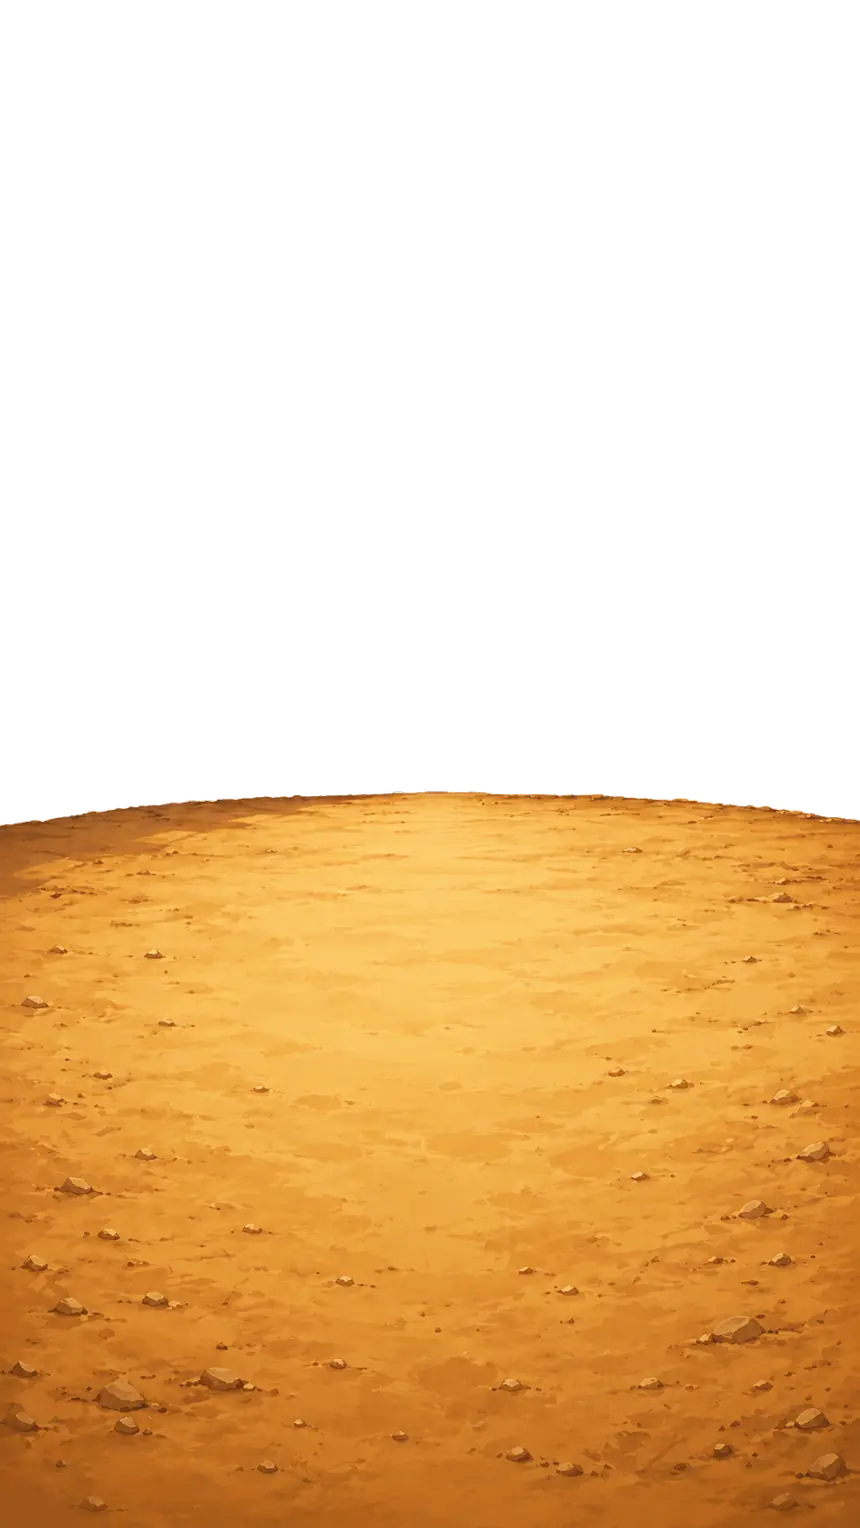
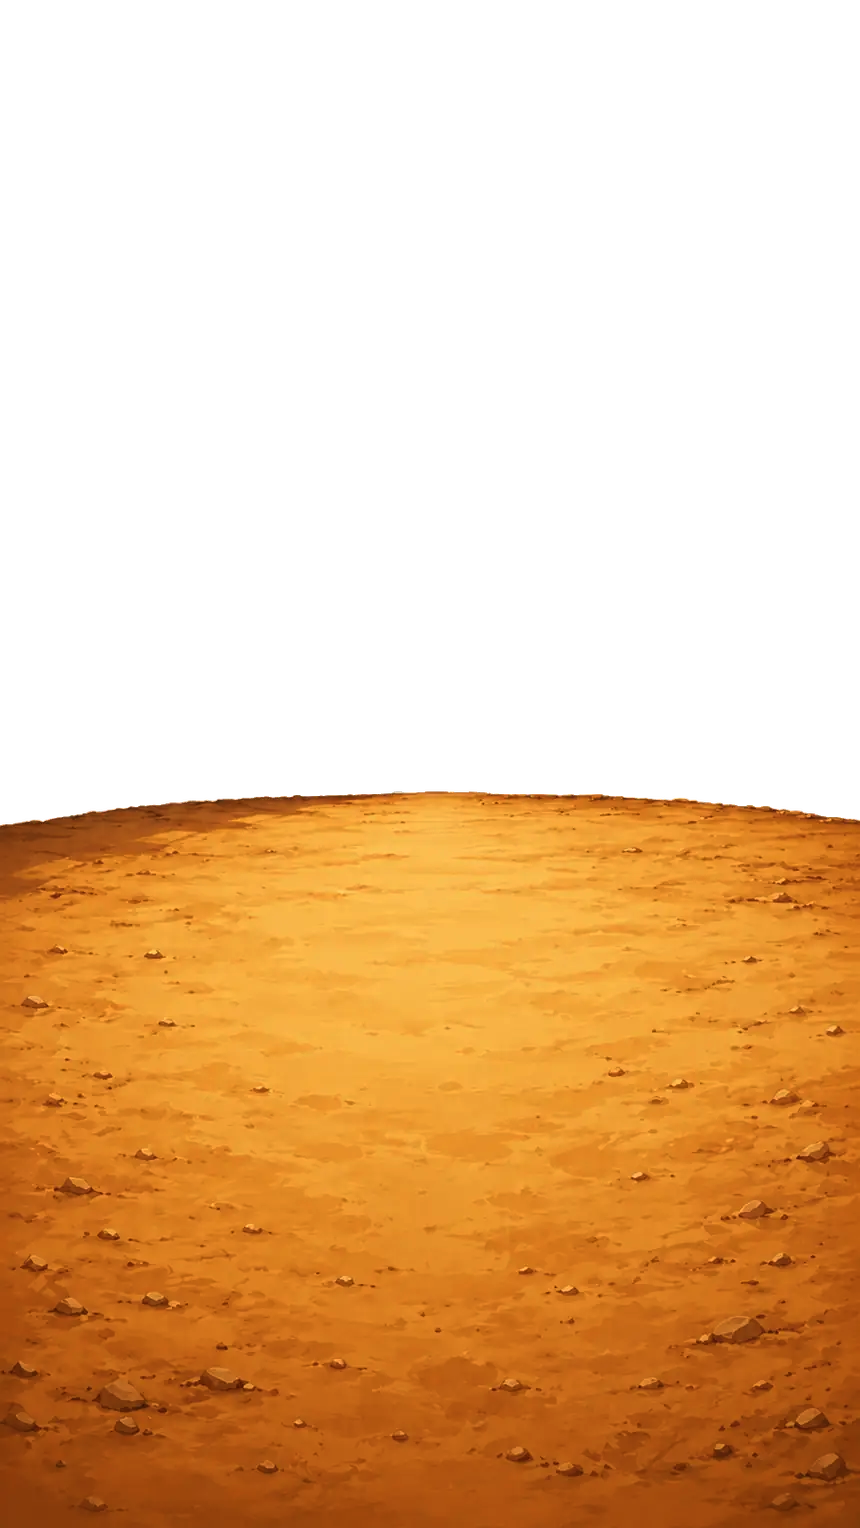
Add new wood panel assets in PNG and WEBP formats
- Introduced ui-panel-wood.png for traditional PNG usage.
- Added ui-panel-wood.webp for optimized web performance.

diff --git a/gladiator-arena/src/styles.css b/gladiator-arena/src/styles.css
@@ -7,6 +7,8 @@
   --burnt: #7a2d16;
   --red: #c83b2d;
   --teal: #42b7aa;
+  --ui-panel-wood-texture: url("./assets/ui/panels/ui-panel-wood.webp");
+  --ui-panel-wood-size: 256px 256px;
 }
 
 * {
@@ -1689,7 +1691,7 @@ h1 {
 }
 
 .city-menu {
-  --city-top-hud-height: 86px;
+  --city-top-hud-height: 96px;
   position: relative;
   isolation: isolate;
   overflow: hidden;
@@ -1780,12 +1782,12 @@ h1 {
   z-index: 4;
   display: grid;
   box-sizing: border-box;
-  grid-template-columns: 84px minmax(0, 1fr);
+  grid-template-columns: 92px minmax(0, 1fr);
   gap: 10px;
   align-items: center;
   width: 100%;
   height: var(--city-top-hud-height);
-  padding: 7px 13px 9px 8px;
+  padding: 8px 13px 10px 9px;
   border: 0;
   border-bottom: 4px solid #1d0a05;
   border-radius: 0 0 14px 14px;
@@ -1793,7 +1795,8 @@ h1 {
   background:
     radial-gradient(circle at 7% 50%, rgba(255, 194, 88, 0.22), transparent 20%),
     radial-gradient(circle at 22% 6%, rgba(255, 197, 95, 0.18), transparent 34%),
-    repeating-linear-gradient(0deg, rgba(255, 234, 180, 0.035) 0 1px, transparent 1px 5px),
+    linear-gradient(180deg, rgba(62, 30, 15, 0.42), rgba(12, 4, 2, 0.72)),
+    var(--ui-panel-wood-texture) center / var(--ui-panel-wood-size) repeat,
     linear-gradient(180deg, #3c2518 0%, #21100a 58%, #110604 100%);
   box-shadow:
     inset 0 2px 0 rgba(255, 219, 144, 0.28),
@@ -1932,8 +1935,8 @@ h1 {
   overflow: hidden;
   justify-self: center;
   box-sizing: border-box;
-  width: 72px;
-  height: 72px;
+  width: 80px;
+  height: 80px;
   padding: 0;
   border: 3px solid #2a1208;
   border-radius: 50%;
@@ -2522,7 +2525,8 @@ body.debug-active .city-menu__portrait-button:active {
   background:
     linear-gradient(90deg, rgba(255, 220, 146, 0.08) 0 1px, transparent 1px calc(100% - 1px), rgba(255, 220, 146, 0.08) calc(100% - 1px)),
     radial-gradient(circle at 14% 3%, rgba(255, 202, 104, 0.16), transparent 26%),
-    repeating-linear-gradient(0deg, rgba(255, 234, 180, 0.026) 0 1px, transparent 1px 4px),
+    linear-gradient(180deg, rgba(84, 39, 18, 0.36), rgba(18, 6, 2, 0.82)),
+    var(--ui-panel-wood-texture) center / var(--ui-panel-wood-size) repeat,
     linear-gradient(180deg, #5b2c14 0%, #2b1209 42%, #1a0904 100%);
   box-shadow:
     inset 0 0 0 2px rgba(94, 52, 28, 0.58),
@@ -2568,6 +2572,8 @@ body.debug-active .city-menu__portrait-button:active {
   border-radius: 4px;
   background:
     linear-gradient(90deg, rgba(255, 220, 146, 0.08), rgba(255, 220, 146, 0.24), rgba(255, 220, 146, 0.08)),
+    linear-gradient(180deg, rgba(117, 54, 24, 0.38), rgba(20, 6, 2, 0.72)),
+    var(--ui-panel-wood-texture) center / 220px 220px repeat,
     linear-gradient(180deg, #7a3a19, #2a0d05);
   box-shadow:
     inset 0 2px 0 rgba(255, 220, 146, 0.22),
@@ -2595,6 +2601,8 @@ body.debug-active .city-menu__portrait-button:active {
   border-radius: 7px;
   background:
     linear-gradient(90deg, rgba(255, 220, 146, 0.08), transparent 46%),
+    linear-gradient(180deg, rgba(58, 23, 10, 0.44), rgba(14, 4, 2, 0.54)),
+    var(--ui-panel-wood-texture) center / var(--ui-panel-wood-size) repeat,
     linear-gradient(180deg, rgba(58, 23, 10, 0.62), rgba(19, 6, 3, 0.32));
   box-shadow:
     inset 0 1px 0 rgba(255, 220, 146, 0.12),
@@ -2830,6 +2838,8 @@ body.debug-active .city-menu__portrait-button:active {
   border-radius: 6px;
   background:
     linear-gradient(90deg, rgba(255, 220, 146, 0.065), transparent 62%),
+    linear-gradient(180deg, rgba(42, 17, 8, 0.66), rgba(12, 3, 1, 0.68)),
+    var(--ui-panel-wood-texture) center / 220px 220px repeat,
     linear-gradient(180deg, rgba(50, 18, 8, 0.84), rgba(22, 7, 3, 0.74));
 }
 
@@ -2900,7 +2910,9 @@ body.debug-active .city-menu__portrait-button:active {
   padding: 8px;
   border: 2px solid #160703;
   border-radius: 7px;
-  background: rgba(17, 6, 3, 0.36);
+  background:
+    linear-gradient(180deg, rgba(17, 6, 3, 0.6), rgba(8, 2, 1, 0.48)),
+    var(--ui-panel-wood-texture) center / 220px 220px repeat;
   box-shadow: inset 0 1px 0 rgba(255, 220, 146, 0.1);
 }
 
@@ -2947,7 +2959,9 @@ body.debug-active .city-menu__portrait-button:active {
   padding: 8px;
   border-color: #160703;
   border-radius: 7px;
-  background: rgba(17, 6, 3, 0.38);
+  background:
+    linear-gradient(180deg, rgba(17, 6, 3, 0.62), rgba(8, 2, 1, 0.52)),
+    var(--ui-panel-wood-texture) center / 220px 220px repeat;
 }
 
 .city-profile__equipment-list {
@@ -3089,7 +3103,8 @@ body.debug-active .city-menu__portrait-button:active {
   background:
     linear-gradient(90deg, rgba(255, 220, 146, 0.08) 0 1px, transparent 1px calc(100% - 1px), rgba(255, 220, 146, 0.08) calc(100% - 1px)),
     radial-gradient(circle at 50% 10%, rgba(255, 202, 104, 0.12), transparent 31%),
-    repeating-linear-gradient(0deg, rgba(255, 234, 180, 0.026) 0 1px, transparent 1px 4px),
+    linear-gradient(180deg, rgba(84, 39, 18, 0.36), rgba(18, 6, 2, 0.84)),
+    var(--ui-panel-wood-texture) center / var(--ui-panel-wood-size) repeat,
     linear-gradient(180deg, #5b2c14 0%, #2b1209 42%, #170803 100%);
   box-shadow:
     inset 0 0 0 2px rgba(94, 52, 28, 0.58),
@@ -3126,6 +3141,8 @@ body.debug-active .city-menu__portrait-button:active {
   color: #fff0bd;
   background:
     linear-gradient(90deg, rgba(255, 220, 146, 0.08), rgba(255, 220, 146, 0.24), rgba(255, 220, 146, 0.08)),
+    linear-gradient(180deg, rgba(117, 54, 24, 0.38), rgba(20, 6, 2, 0.72)),
+    var(--ui-panel-wood-texture) center / 220px 220px repeat,
     linear-gradient(180deg, #7a3a19, #2a0d05);
   box-shadow:
     inset 0 2px 0 rgba(255, 220, 146, 0.22),
@@ -3177,6 +3194,8 @@ body.debug-active .city-menu__portrait-button:active {
   background:
     radial-gradient(circle at 53% 43%, rgba(255, 220, 146, 0.1), transparent 35%),
     radial-gradient(circle at 18% 78%, rgba(255, 220, 146, 0.045), transparent 24%),
+    linear-gradient(180deg, rgba(42, 18, 9, 0.58), rgba(8, 2, 1, 0.54)),
+    var(--ui-panel-wood-texture) center / 220px 220px repeat,
     linear-gradient(180deg, rgba(42, 18, 9, 0.74), rgba(14, 5, 2, 0.54));
   box-shadow:
     inset 0 1px 0 rgba(255, 220, 146, 0.12),
@@ -3346,7 +3365,9 @@ body.debug-active .city-menu__portrait-button:active {
   padding: 6px;
   border: 2px solid #160703;
   border-radius: 7px;
-  background: rgba(17, 6, 3, 0.48);
+  background:
+    linear-gradient(180deg, rgba(17, 6, 3, 0.68), rgba(8, 2, 1, 0.56)),
+    var(--ui-panel-wood-texture) center / 220px 220px repeat;
   box-shadow: inset 0 1px 0 rgba(255, 220, 146, 0.12);
 }
 
@@ -3359,6 +3380,8 @@ body.debug-active .city-menu__portrait-button:active {
   border: 2px solid #120502;
   border-radius: 7px;
   background:
+    linear-gradient(180deg, rgba(61, 25, 11, 0.68), rgba(8, 2, 1, 0.72)),
+    var(--ui-panel-wood-texture) center / 180px 180px repeat,
     linear-gradient(180deg, rgba(61, 25, 11, 0.92), rgba(18, 5, 2, 0.88));
   box-shadow: inset 0 1px 0 rgba(255, 220, 146, 0.12);
 }
@@ -3374,6 +3397,8 @@ body.debug-active .city-menu__portrait-button:active {
   border-radius: 7px;
   background:
     radial-gradient(circle at 50% 18%, rgba(255, 235, 170, 0.18), transparent 44%),
+    linear-gradient(180deg, rgba(139, 74, 30, 0.42), rgba(20, 6, 2, 0.64)),
+    var(--ui-panel-wood-texture) center / 160px 160px repeat,
     linear-gradient(180deg, #8b4a1e, #2b0d05);
   box-shadow:
     inset 0 1px 0 rgba(255, 220, 146, 0.18),
@@ -3863,7 +3888,7 @@ body.debug-active .city-menu__portrait-button:active {
   --shop-city-product-columns: 3;
   --shop-city-product-gap: 5px;
   --shop-city-product-row-height: clamp(104px, 15.8dvh, 124px);
-  --shop-city-rail-width: 70px;
+  --shop-city-rail-width: 77px;
   --shop-city-panel-pad-x: 4px;
   --shop-city-rail-gap: 6px;
   --shop-city-header-height: 28px;